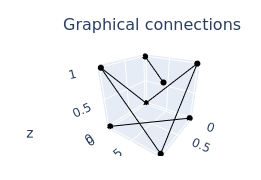
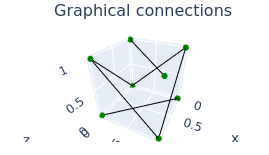
node color green. renewed all images that corresponded

diff --git a/polygon.py b/polygon.py
@@ -3,7 +3,7 @@ from __future__ import annotations
 import node as N
 import connection as C
 import matrix
-import sys
+import sys, time
 from copy import deepcopy
 
 matrix.EPSILON = 10e-6
@@ -221,6 +221,7 @@ class Polygon:
 		'''
 		# change recursion limit
 		polygon._set_recursion_limit()
+		t1 = time.perf_counter()
 		# init
 		base_ratio = (n - 1) / n
 		special_ratio = (n - 2) / (n - 1) # when the vector has already been trunced once
@@ -336,7 +337,7 @@ class Polygon:
 		#print('num nodes:', len(new_node_list))
 
 		# return the final polygon
-		if verbose: print('Chaiking 3D done')
+		if verbose: print('Chaikin 3D finished in {}'.format(time.perf_counter() - t1))
 		return Polygon(new_node_list)
 
 	@staticmethod

diff --git a/plotly_renderer.py b/plotly_renderer.py
@@ -133,7 +133,7 @@ class Renderer:
 				z = [A[2], B[2]],
 				marker={
 					'size': 2,
-					'color': gen_random_color() if color == 'random' else color
+					'color': gen_random_color() if color == 'random' else 'green'
 				},
 				line={
 					'color': gen_random_color() if color == 'random' else color,
